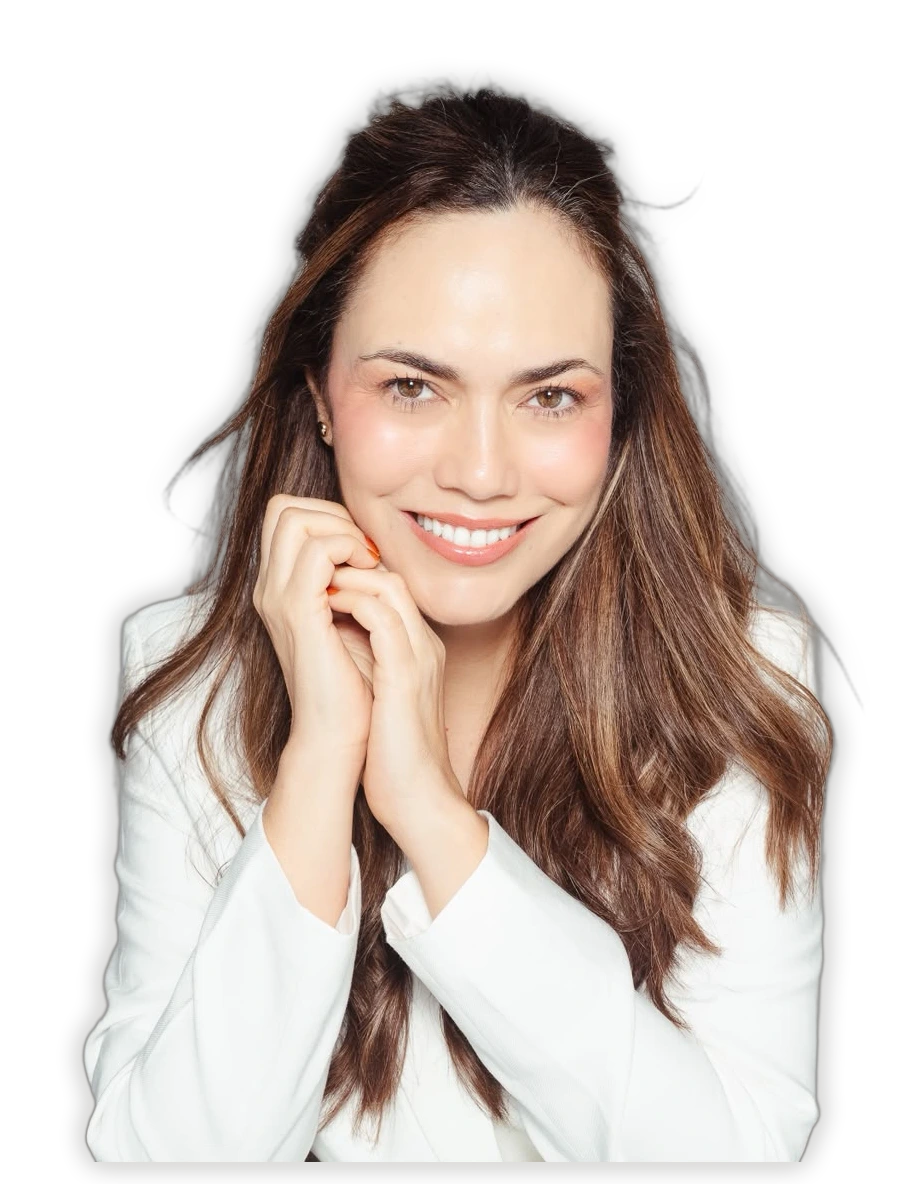
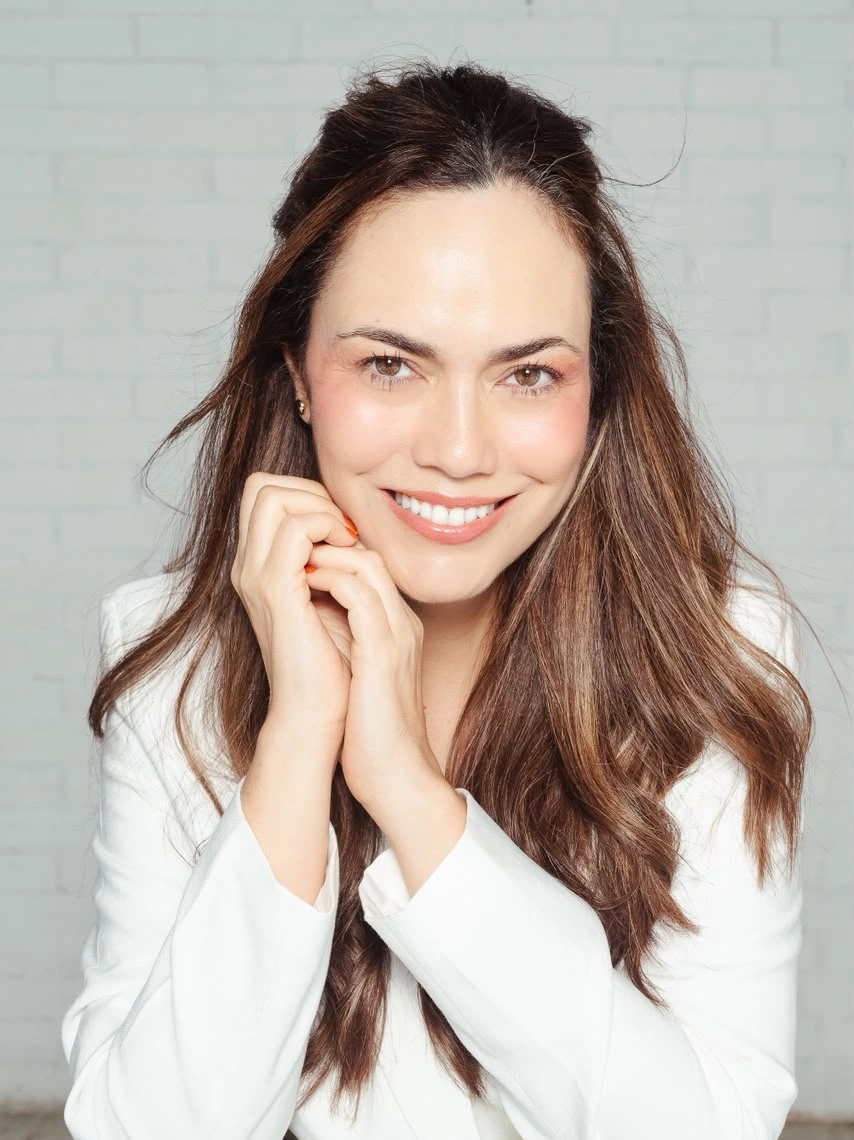
Usar la foto original del fotografo (con fondo) en tarjeta compacta, sin recorte ni halo flotante

diff --git a/index.html b/index.html
@@ -106,38 +106,15 @@
     .hero h1 { font-size: clamp(26px, 7vw, 30px); max-width: none; }
     .hero p.dek { font-size: 15.5px; margin-top: 14px; }
   }
-  .hero-photo-wrap { grid-area: foto; position: relative; display: flex; justify-content: center; padding-bottom: 22px; }
-  @media (max-width: 860px) { .hero-photo-wrap { padding-bottom: 4px; } }
-  .hero-photo-wrap::before {
-    content: ""; position: absolute; width: 340px; height: 340px; border-radius: 50%;
-    background: radial-gradient(circle, rgba(212,169,79,0.30), rgba(72,30,99,0.16) 55%, transparent 72%);
-    filter: blur(6px); z-index: 0;
-  }
-  .hero-photo-asiento {
-    position: absolute; left: 50%; bottom: 30px; transform: translateX(-50%);
-    width: 58%; height: 19%; min-height: 78px;
-    background: linear-gradient(160deg, rgba(212,169,79,0.9), rgba(193,105,74,0.92) 130%);
-    border-radius: 50%;
-    filter: blur(2px);
-    box-shadow: 0 18px 30px -12px rgba(60,25,45,0.38);
-    z-index: 0;
-  }
-  .hero-photo-sombra {
-    position: absolute; left: 50%; bottom: 0; transform: translateX(-50%);
-    width: 58%; height: 24px;
-    background: radial-gradient(closest-side, rgba(31,13,43,0.34), transparent 75%);
-    filter: blur(2px); z-index: 0;
-  }
+  .hero-photo-wrap { grid-area: foto; position: relative; display: flex; justify-content: center; padding-bottom: 8px; }
   .hero-photo {
-    width: min(470px, 92vw); height: auto; object-fit: contain;
-    filter: drop-shadow(0 26px 40px rgba(60,25,45,0.28));
+    width: min(340px, 82vw); aspect-ratio: 854/1140; object-fit: cover;
+    border-radius: 24px;
+    box-shadow: 0 20px 40px -14px rgba(60,25,45,0.35);
     position: relative; z-index: 1; display: block;
   }
   @media (max-width: 640px) {
-    .hero-photo { width: min(265px, 64vw); }
-    .hero-photo-wrap::before { width: 200px; height: 200px; }
-    .hero-photo-asiento { bottom: 16px; height: 15%; min-height: 46px; }
-    .hero-photo-sombra { height: 16px; }
+    .hero-photo { width: min(240px, 62vw); }
   }
 
   .btn-hero {
@@ -381,8 +358,6 @@
         <h1>Conecta con tu <em>esencia</em>, equilibra y potencia tu energía sexual. Con tu energía activamos tu poder y creamos tu realidad.</h1>
       </div>
       <div class="hero-photo-wrap">
-        <div class="hero-photo-sombra"></div>
-        <div class="hero-photo-asiento"></div>
         <img class="hero-photo" src="adriana-foto-hero.webp" alt="Adriana Vargas, sexóloga">
       </div>
       <div class="hero-detalle">
